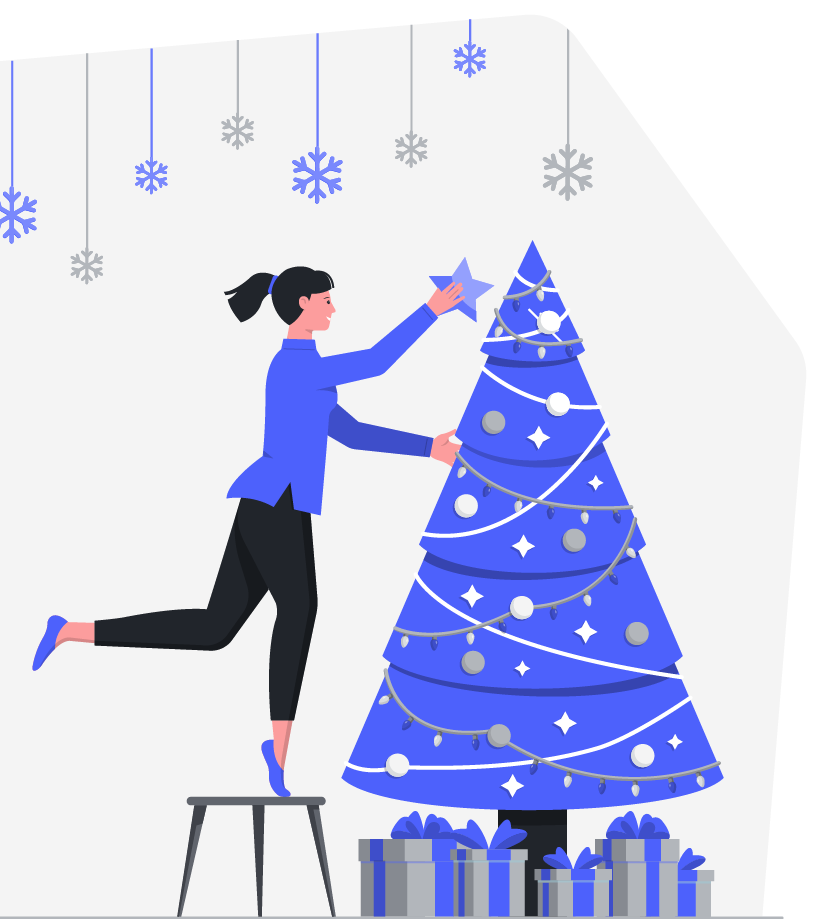
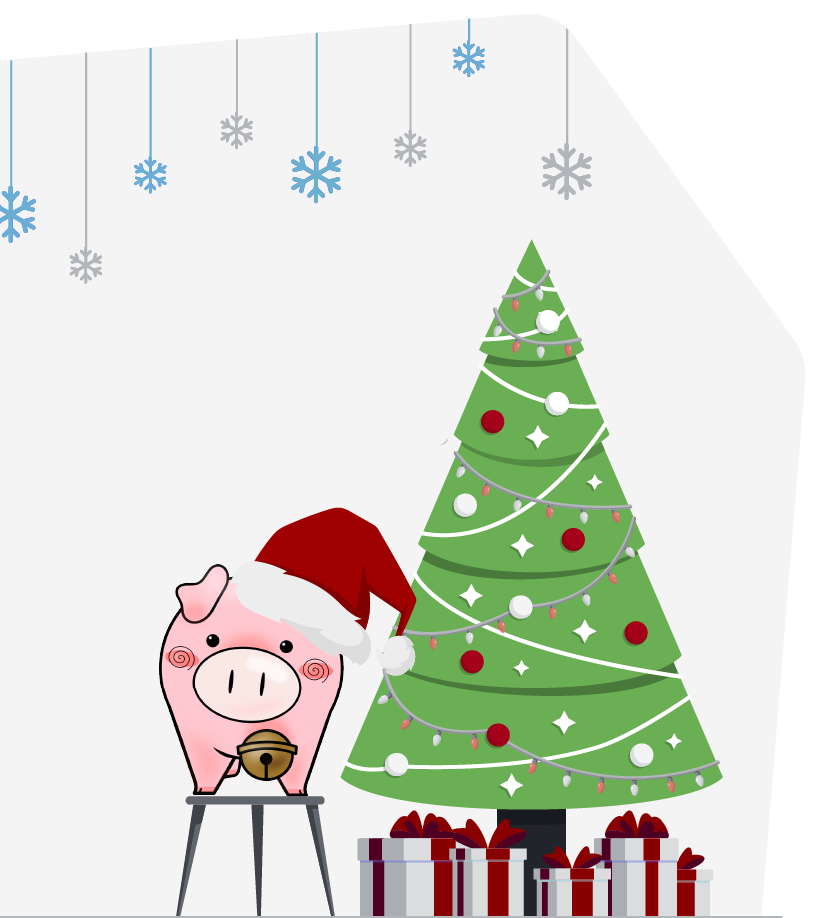
acg layout

diff --git a/src/style.css b/src/style.css
@@ -63,17 +63,17 @@ form {
     margin-left: 34px;
 }
 .item input:hover, .item select:hover, .item textarea:hover {
-    border: 1px solid #4D61FC;
+    border: 1px solid #49a3d1;
     }
 .item input:focus, .item select:focus, .item textarea:focus {
-        border: 1px solid #4D61FC;
+        border: 1px solid #49a3d1;
         }
 .item {
     position: relative;
     margin: 10px 0;
     }
 .item span {
-    color: #4D61FC;
+    color: #49a3d1;
     }
 .colums {
     display:flex;
@@ -96,7 +96,7 @@ button {
     padding: 10px;
     border: none;
     border-radius: 5px; 
-    background:  #4D61FC;
+    background:  #49a3d1;
     font-size: 16px;
     color: #f4f4f4;
     cursor: pointer;
@@ -104,7 +104,7 @@ button {
     
     }
 button:hover {
-    background:  #3644B1;
+    background:  #3678b1;
     color: #e4e4e4;
     }
 

diff --git a/index.html b/index.html
@@ -55,13 +55,13 @@
         <div class="wrapper">
     <div class="container">
         <div class="item">
-            <h1>Wichteln 2022</h1>
+            <img src="./images/ba3e3c551fc1be6736e85bfe0402f524.png" alt="">
         </div>
         <div class="item">
-            <a href="anmeldung">> Am Wichteln teilnehmen</a>
+            <a href="anmeldung">❄ Am Wichteln teilnehmen</a>
         </div>
         <div class="item">
-            <a href="wichtel">> Informationen zu meinem Wichtel anzeigen oder meine eigenen bearbeiten</a>
+            <a href="wichtel">❄ Informationen zu meinem Wichtel anzeigen oder meine eigenen bearbeiten</a>
         </div>
     </div>
 </div>

diff --git a/src/wichtel.css b/src/wichtel.css
@@ -115,7 +115,19 @@ button:hover {
     color: #e4e4e4;
     }
 
+a#editButton {
+    padding: 6px 12px;
+    border-radius: 4px;
+    background-color: #f4f4f4;
+    color:#1A1D21;
+    font-family: Roboto-Regular;
+    margin-bottom: 10px;
+    font-size: 1.6rem;
+}
 
+a#editButton:hover {
+    background-color: #3678b1;
+}
 
 
 div.msg > h1 {
@@ -160,7 +172,6 @@ div.msg > h1 {
 
 input[type="checkbox"] {
    position: relative;
-    top: -1px;
 }
 .codeInput {
     width: calc(100% - 33px);
@@ -199,7 +210,7 @@ h3 {
     font-size: 2.8rem;
     margin-bottom: 0;
     margin-top:60px;
-    color: #4D61FC;
+    color: #49a3d1;
   }
 div > p {
     grid-column: 2/3;

diff --git a/src/universal-styles.css b/src/universal-styles.css
@@ -31,7 +31,7 @@ h1 {
         margin: 0;
         font-family: Roboto-Medium, Arial, sans-serif;
         font-size: 4.1rem;
-        color: #4D61FC;
+        color: #49a3d1;
         line-height: 1.3;
      }
 
@@ -68,11 +68,14 @@ a {
     cursor: pointer;
 }
 p > a {
-    color: #4D61FC;
-    text-decoration: underline dotted;
+    color: #49a3d1;
     font-size: 1.8rem;
     top: 0;
     display: inline-block;
+}
+
+p > a:hover {
+    color:#3678b1;
 }
 
 .hidden {
@@ -80,7 +83,7 @@ p > a {
 }
 
 .editsuccess{
-    color: #4D61FC;
+    color: #49a3d1;
  animation: editsuccess 0.15s ease-in-out;
 
 }

diff --git a/anmeldung.php b/anmeldung.php
@@ -23,7 +23,7 @@ if (($REGCLOSED) || (file_exists('admin/.rolled'))) {
 <body>
   <div class="container">
     <div class="image">
-      <img src="./images/christmas-decoration.png" alt="girl decorating a christmas tree">
+      <img src="./images/christmas-decoration1.png" alt="girl decorating a christmas tree">
     </div>
     <div class="form">
       <form action="submit" method="post">
@@ -56,7 +56,7 @@ if (($REGCLOSED) || (file_exists('admin/.rolled'))) {
             <textarea class="end" name="like" id="like" cols="30" rows="3" placeholder="(Anime, Manga, Spiel, Essen, ...)"></textarea>
           </div>
           <div class="item">
-            <label for="wishlist">Wishlist</label>
+            <label for="wishlist">Sonstiges</label>
             <input id="wishlist" type="text" name="wishlist" />
           </div>
           <?php

diff --git a/edit.php b/edit.php
@@ -93,13 +93,13 @@ $email = $row['email'];
         <div class="colums">
 
           <div class="item">
-            <label  for="dname">Discord Name <span>*</span></label>
+            <label  for="dname">Foren-Nickname<span>*</span></label>
             <?php echo'
             <input  id="dname" type="text" name="dname" required value="'.htmlspecialchars($dname,ENT_QUOTES).'" />';
             ?>
           </div>
           <div class="item">
-            <label class="end" for="wishlist">Wishlist</label>
+            <label class="end" for="wishlist">Sonstiges</label>
             <?php echo'
             <input class="end" id="wishlist" type="text" name="wishlist" value="'.htmlspecialchars($wishlist,ENT_QUOTES).'" />';
             ?>

diff --git a/wichtel.php b/wichtel.php
@@ -60,7 +60,7 @@
 		if (!file_exists('admin/.rolled')) { // Hier ist noch keine DB Verbindung aufgebaut, so schmutzig, was soll's 😤
 			echo "
 		<div class='edit'>
-		<p>> <a id='editButton'>Eigene Infos bearbeiten</a><br>(Teilnehmercode oben einfügen nicht vergessen!)</p> 
+		<p><a id='editButton'>Eigene Infos bearbeiten</a><br>(Teilnehmercode oben einfügen nicht vergessen!)</p> 
 	  </div>";
 		}
 		echo "

diff --git a/admin/config.php b/admin/config.php
@@ -1,9 +1,9 @@
 <?php
-$DBHOST='localhost';
-$DBUSER='acgwichteln';
-$DBPASS='JKLdfasfas!423-ASDaffjf99!!fdjads';
+$DBHOST='gulasch.fritz.box';
+$DBUSER='wichteln';
+$DBPASS='blabla123';
 $DBNAME='wichteln';
-$DBPREFIX='acg';
+$DBPREFIX='disc';
 $SITEURL='acg-wichteln.aerishi.de';
 $REGCLOSED=0;
 $ROLLDATE="XX.XX.XXXX";
